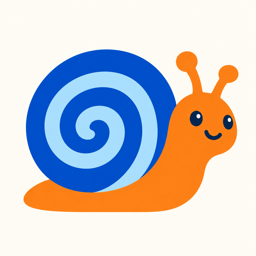
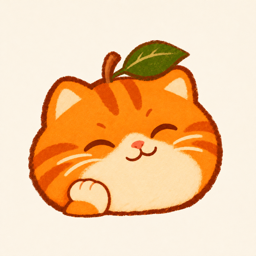
chore: 更新一只橘 oranji 图标与版本

diff --git a/README.md b/README.md
@@ -2,7 +2,9 @@
 
 [English](README.en.md) · 中文
 
-<img src="icon.png" alt="SnailMann 蜗牛图标" width="80" height="80">
+<img src="icon.png" alt="一只橘 oranji 微笑图标" width="80" height="80">
+
+一只橘 oranji 的 DSH 插件。
 
 **模型越来越多，切换不该越来越麻烦。**
 

diff --git a/README.en.md b/README.en.md
@@ -1,6 +1,8 @@
 # DSH Quick Model Selector
 
-<img src="icon.png" alt="SnailMann snail icon" width="80" height="80">
+<img src="icon.png" alt="一只橘 oranji smiling icon" width="80" height="80">
+
+A DSH plugin by 一只橘 oranji.
 
 English · [中文](README.md)
 
